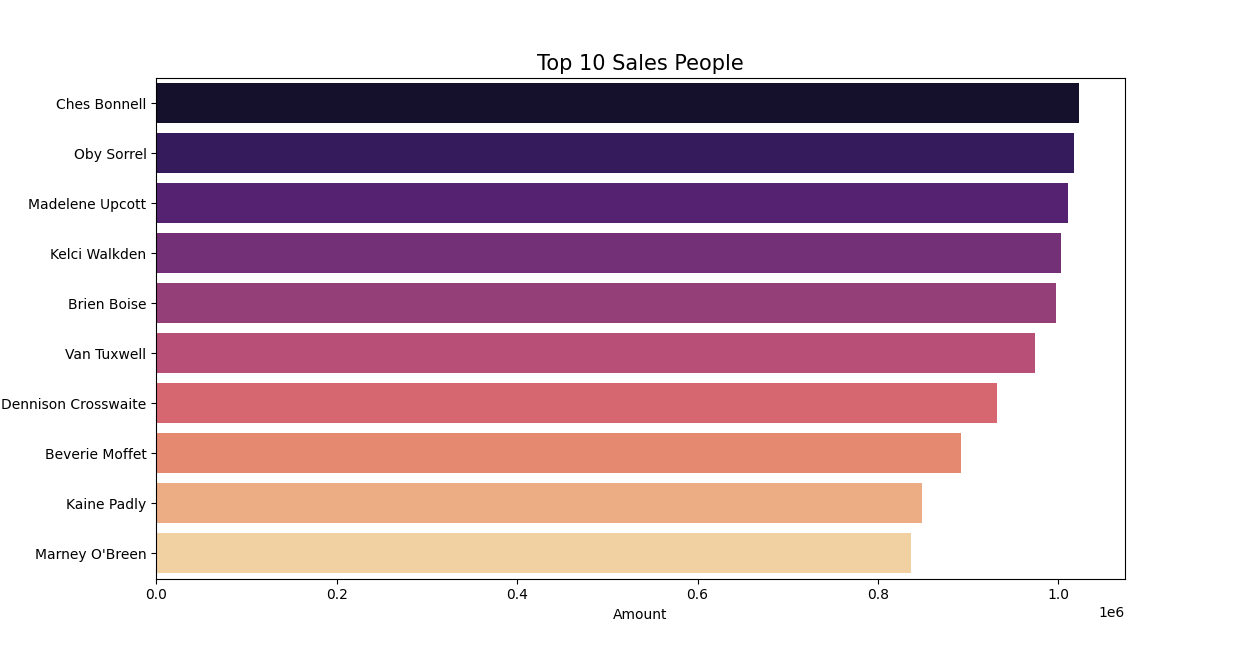
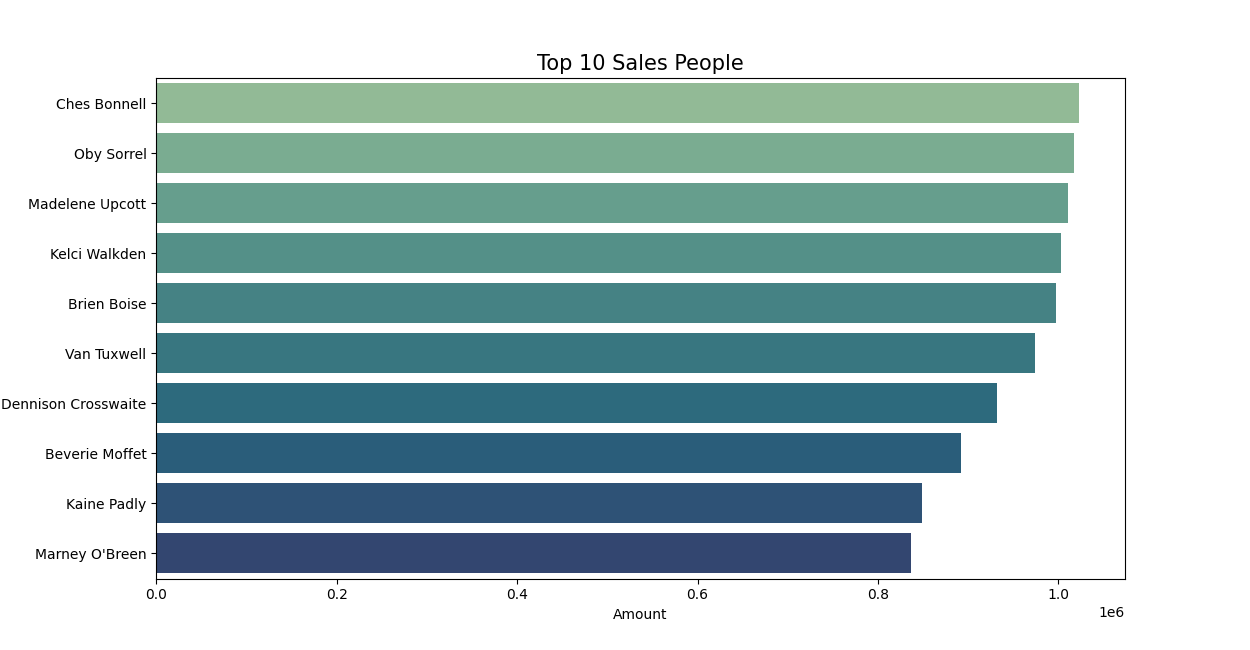
Modified the palettes

diff --git a/visualizer.py b/visualizer.py
@@ -18,7 +18,7 @@ def revenue_by_country(df):
 def sales_performance(df):
     plt.figure(figsize=(12.5, 6.5))
     sales_perf = df.groupby('Sales Person')['Amount'].sum().sort_values(ascending=False).head(10).reset_index()
-    sns.barplot(sales_perf, x='Amount', y='Sales Person', hue='Sales Person', palette='magma')
+    sns.barplot(sales_perf, x='Amount', y='Sales Person', hue='Sales Person', palette='crest')
     plt.title('Top 10 Sales People', fontsize=15)
     plt.savefig('outputs/top_sales_people.png')
 
@@ -26,7 +26,7 @@ def sales_performance(df):
 def product_sales(df):
     plt.figure(figsize=(12.5, 6.5))
     products = df.groupby('Product')['Amount'].sum().sort_values(ascending=False).head(10).reset_index()
-    sns.barplot(products, x='Amount', y='Product', hue='Amount', palette=('flare'))
+    sns.barplot(products, x='Amount', y='Product', hue='Amount', palette='flare')
     plt.title('Top 10 Products Sold', fontsize=15)
     plt.savefig('outputs/top_10_products.png')
 
